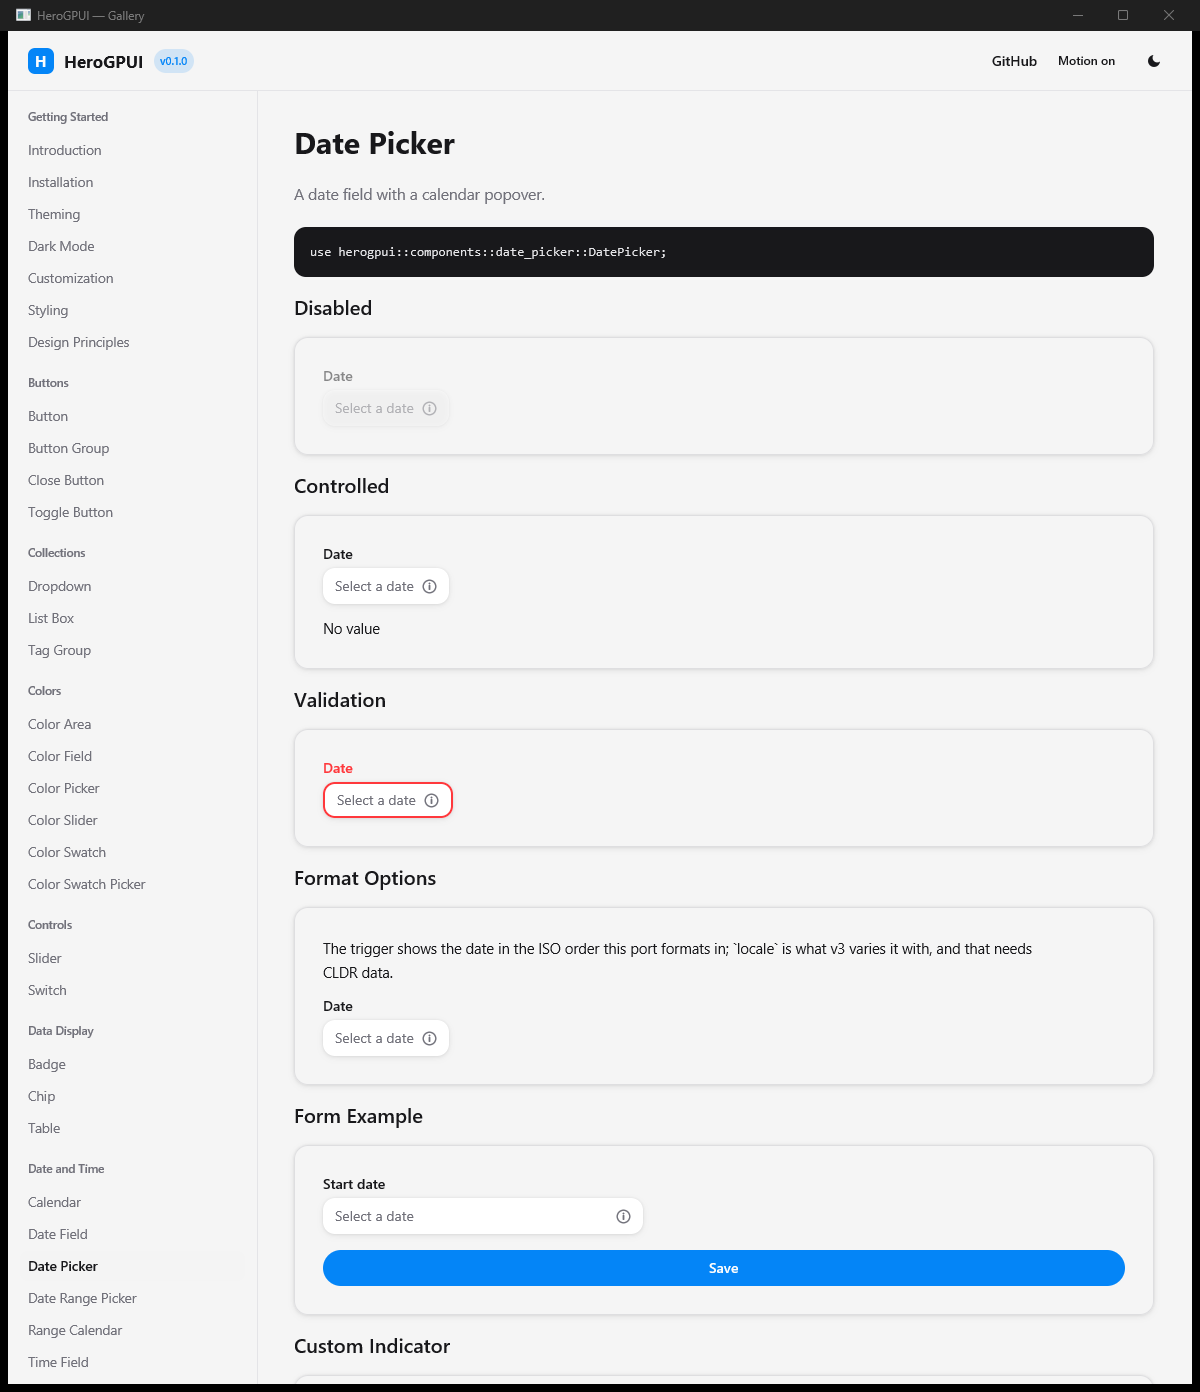
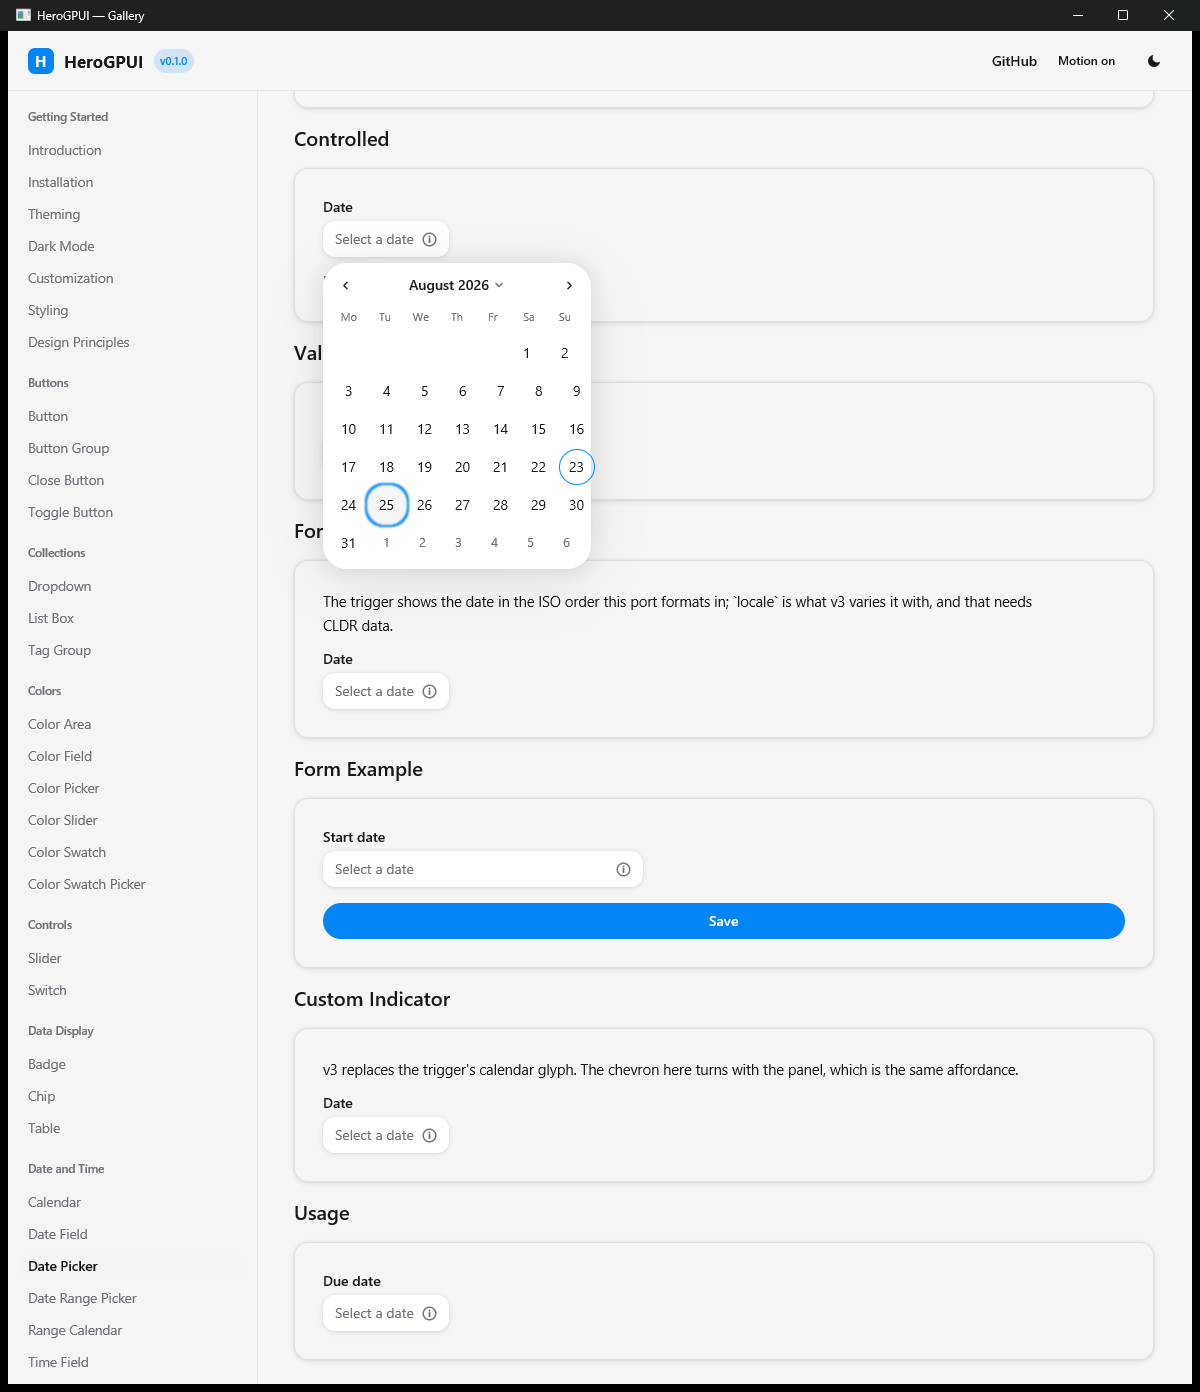
Move the focus into a date picker's calendar when it opens
The grid was a tab stop the user had to find: opening a picker put the panel on
screen and left the focus on the trigger, so the arrows did nothing until Tab
happened to land inside. React Aria moves the focus into the calendar as the
popover opens, which is also what makes Escape reach the picker's root -- the
key bubbles up from the grid.

`autofocus_grid` is crate-only on both calendars, because a standalone calendar
must *not* take the focus: the gallery renders several on one page and they
would fight over it.

Verified by driving the app: opening the controlled picker and pressing Right
twice moves the ring from today to the 25th.

diff --git a/crates/herogpui-components/src/calendar.rs b/crates/herogpui-components/src/calendar.rs
@@ -282,6 +282,9 @@ pub struct Calendar {
     constraints: DateConstraints,
     is_disabled: bool,
     is_read_only: bool,
+    /// Set by a picker: take the focus as the panel opens. See
+    /// [`Calendar::autofocus_grid`].
+    autofocus_grid: bool,
     /// `Calendar.CellIndicator` — whether a day carries a mark. v3 uses it for
     /// event dots; the closure is handed the date.
     cell_indicator: Option<Box<dyn Fn(Date) -> bool + 'static>>,
@@ -334,6 +337,7 @@ impl Calendar {
             constraints: DateConstraints::new(),
             is_disabled: false,
             is_read_only: false,
+            autofocus_grid: false,
             cell_indicator: None,
             nav_icons: None,
             is_invalid: false,
@@ -408,6 +412,18 @@ impl Calendar {
 
     pub fn is_read_only(mut self, v: bool) -> Self {
         self.is_read_only = v;
+        self
+    }
+
+    /// Takes the focus the first time the grid renders.
+    ///
+    /// Not a v3 prop: React Aria moves the focus into the calendar when a date
+    /// picker's popover opens, and a picker whose arrows do nothing until the
+    /// user finds it with Tab is not the same component. Crate-only, because a
+    /// standalone calendar must *not* steal the focus -- a page with three of
+    /// them would fight over it.
+    pub(crate) fn autofocus_grid(mut self, v: bool) -> Self {
+        self.autofocus_grid = v;
         self
     }
 
@@ -796,6 +812,16 @@ impl RenderOnce for Calendar {
             window,
             cx,
         );
+        // Inside a picker the grid takes the focus as the panel opens, so the
+        // arrows work without hunting for it with Tab.
+        if self.autofocus_grid && !self.is_disabled {
+            crate::util::focus_once(
+                window,
+                cx,
+                gpui::ElementId::Name(format!("{base}-autofocus").into()),
+                &grid_focus,
+            );
+        }
         let cursor = window.use_keyed_state(
             gpui::ElementId::Name(format!("{base}-cursor").into()),
             cx,

diff --git a/.shots/behaviour_audit.py b/.shots/behaviour_audit.py
@@ -119,6 +119,10 @@ SCROLL_INTO_VIEW = ('Select', 'ComboBox', 'Autocomplete', 'ListBox', 'Dropdown')
 # Ours moved an invisible cursor: the month on screen never changed.
 CALENDAR_PAGING = ('Calendar', 'RangeCalendar')
 
+# Opening a picker moves the focus into the calendar. Without it the grid was a
+# tab stop the user had to *find*, and the arrows did nothing until they did.
+PANEL_FOCUS = ('DatePicker', 'DateRangePicker')
+
 OVERLAY_DISMISS = (
     'Popover', 'Dropdown', 'Select', 'ComboBox', 'Autocomplete',
     'DatePicker', 'DateRangePicker', 'ColorPicker', 'Tooltip',
@@ -192,6 +196,8 @@ EVIDENCE = {
     ('TextArea', 'text-keys'): ('input.rs', r'fn vertical_target'),
     ('TextField', 'text-keys'): ('input.rs', r'key_char'),
     ('Dropdown', 'focus-return'): ('dropdown.rs', r'back_to_trigger'),
+    ('DatePicker', 'panel-focus'): ('date_picker.rs', r'autofocus_grid\(true\)'),
+    ('DateRangePicker', 'panel-focus'): ('date_picker.rs', r'autofocus_grid\(true\)'),
     ('Calendar', 'calendar-paging'): ('calendar.rs', r'"pageup" if shift'),
     ('RangeCalendar', 'calendar-paging'): ('range_calendar.rs', r'"pageup" if shift'),
     ('Select', 'scroll-into-view'): ('select.rs', r'scroll_to_item'),
@@ -269,12 +275,12 @@ def main():
     derived = dict.fromkeys(
         ARROW_NAV + REMOVE_KEY + OVERLAY_DISMISS + SPIN_KEYS + FOCUS_OPEN
         + TEXT_KEYS + POINTER_CARET + SORT_KEYS + FOCUS_RETURN + SCROLL_INTO_VIEW
-        + CALENDAR_PAGING
+        + CALENDAR_PAGING + PANEL_FOCUS
     )
     for page in derived:
         for claim in ('arrow-nav', 'remove-key', 'dismiss', 'spin-keys', 'focus-open',
                       'text-keys', 'pointer-caret', 'sort-keys', 'focus-return',
-                      'scroll-into-view', 'calendar-paging'):
+                      'scroll-into-view', 'calendar-paging', 'panel-focus'):
             key = (page, claim)
             # A derived claim can be excused too, and the reason has to reach
             # the breakdown: reading only EVIDENCE skipped `TextArea`'s

diff --git a/crates/herogpui-components/src/range_calendar.rs b/crates/herogpui-components/src/range_calendar.rs
@@ -34,6 +34,9 @@ pub struct RangeCalendar {
     constraints: DateConstraints,
     is_disabled: bool,
     is_read_only: bool,
+    /// Set by a picker: take the focus as the panel opens. See
+    /// [`RangeCalendar::autofocus_grid`].
+    autofocus_grid: bool,
     is_invalid: bool,
     focused_value: Option<Date>,
     duration: VisibleDuration,
@@ -84,6 +87,7 @@ impl RangeCalendar {
             constraints: DateConstraints::new(),
             is_disabled: false,
             is_read_only: false,
+            autofocus_grid: false,
             is_invalid: false,
             focused_value: None,
             duration: VisibleDuration::default(),
@@ -206,6 +210,14 @@ impl RangeCalendar {
 
     pub fn is_read_only(mut self, v: bool) -> Self {
         self.is_read_only = v;
+        self
+    }
+
+    /// Takes the focus the first time the grid renders; see
+    /// [`crate::calendar::Calendar::autofocus_grid`]. Crate-only for the same
+    /// reason: a standalone calendar must not steal the focus.
+    pub(crate) fn autofocus_grid(mut self, v: bool) -> Self {
+        self.autofocus_grid = v;
         self
     }
 
@@ -511,6 +523,16 @@ impl RenderOnce for RangeCalendar {
         // `use_keyed_state` takes `cx` mutably, so both precede the theme.
         let grid_focus =
             util::tab_stop_handle(ElementId::Name(format!("{base}-focus").into()), window, cx);
+        // Inside a picker the grid takes the focus as the panel opens, so the
+        // arrows work without hunting for it with Tab.
+        if self.autofocus_grid && !self.is_disabled {
+            util::focus_once(
+                window,
+                cx,
+                ElementId::Name(format!("{base}-autofocus").into()),
+                &grid_focus,
+            );
+        }
         let cursor = window.use_keyed_state(
             ElementId::Name(format!("{base}-cursor").into()),
             cx,

diff --git a/crates/herogpui-components/src/date_picker.rs b/crates/herogpui-components/src/date_picker.rs
@@ -311,6 +311,9 @@ impl RenderOnce for DatePicker {
             let mut cal = Calendar::new(self.state.clone())
                 .constraints(self.constraints.clone())
                 .is_disabled(self.is_disabled)
+                // React Aria moves the focus into the calendar as the popover
+                // opens, so the arrows work straight away.
+                .autofocus_grid(true)
                 .is_invalid(self.is_invalid);
             if let Some(on_change) = self.on_change.clone() {
                 cal = cal.on_change(move |d, window, cx| on_change(d, window, cx));
@@ -741,6 +744,7 @@ impl RenderOnce for DateRangePicker {
             let on_change = self.on_change.clone();
             let mut calendar = crate::range_calendar::RangeCalendar::new(self.state.clone())
                 .constraints(self.constraints.clone())
+                .autofocus_grid(true)
                 .is_invalid(self.is_invalid);
             if let Some(cb) = on_change {
                 calendar = calendar.on_change(move |_s, _e, window, cx| cb(window, cx));
